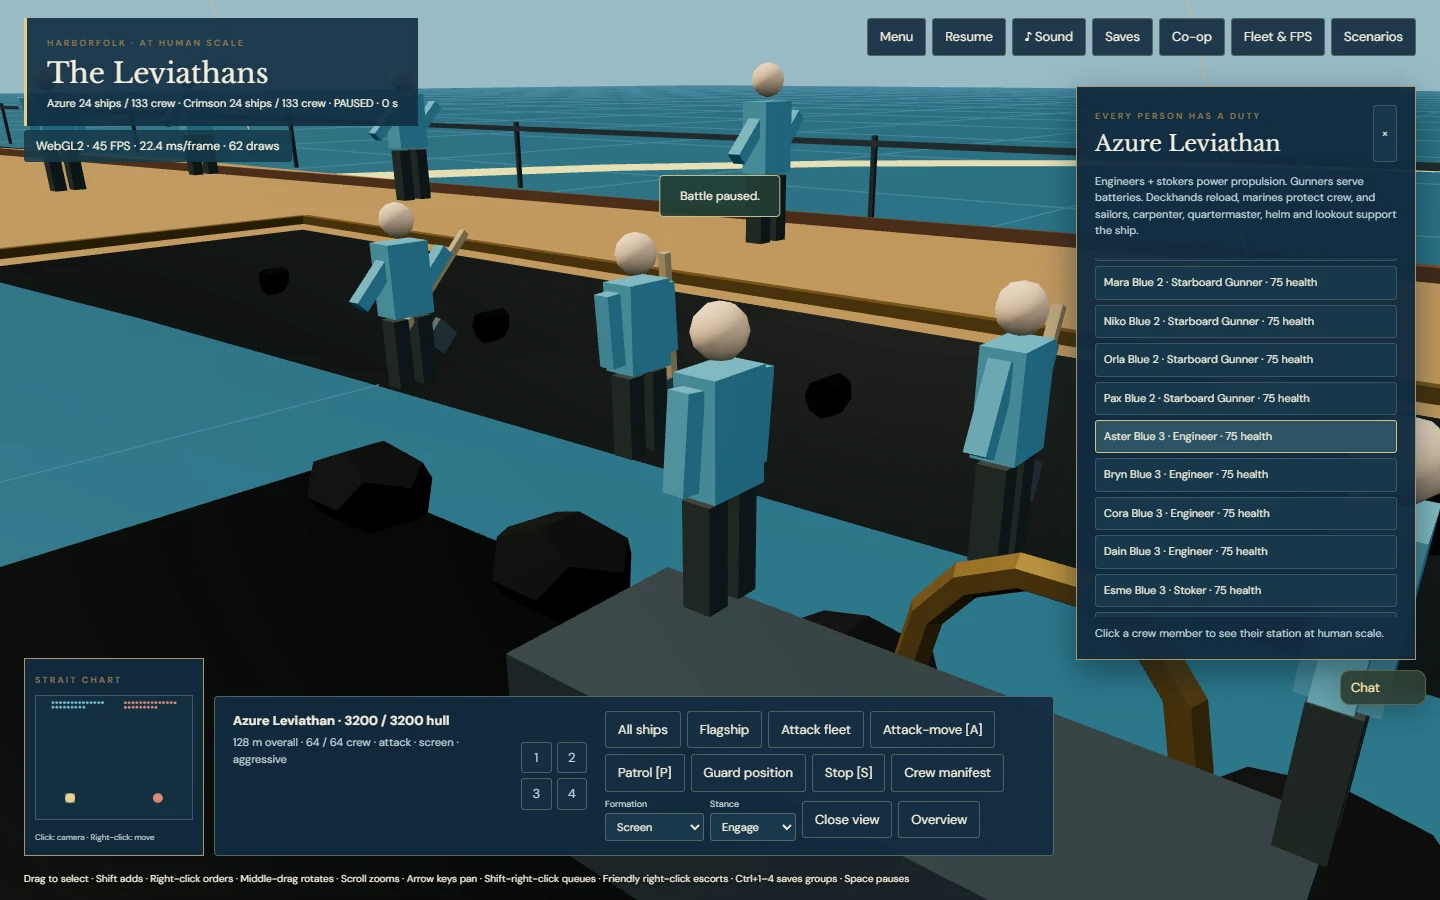
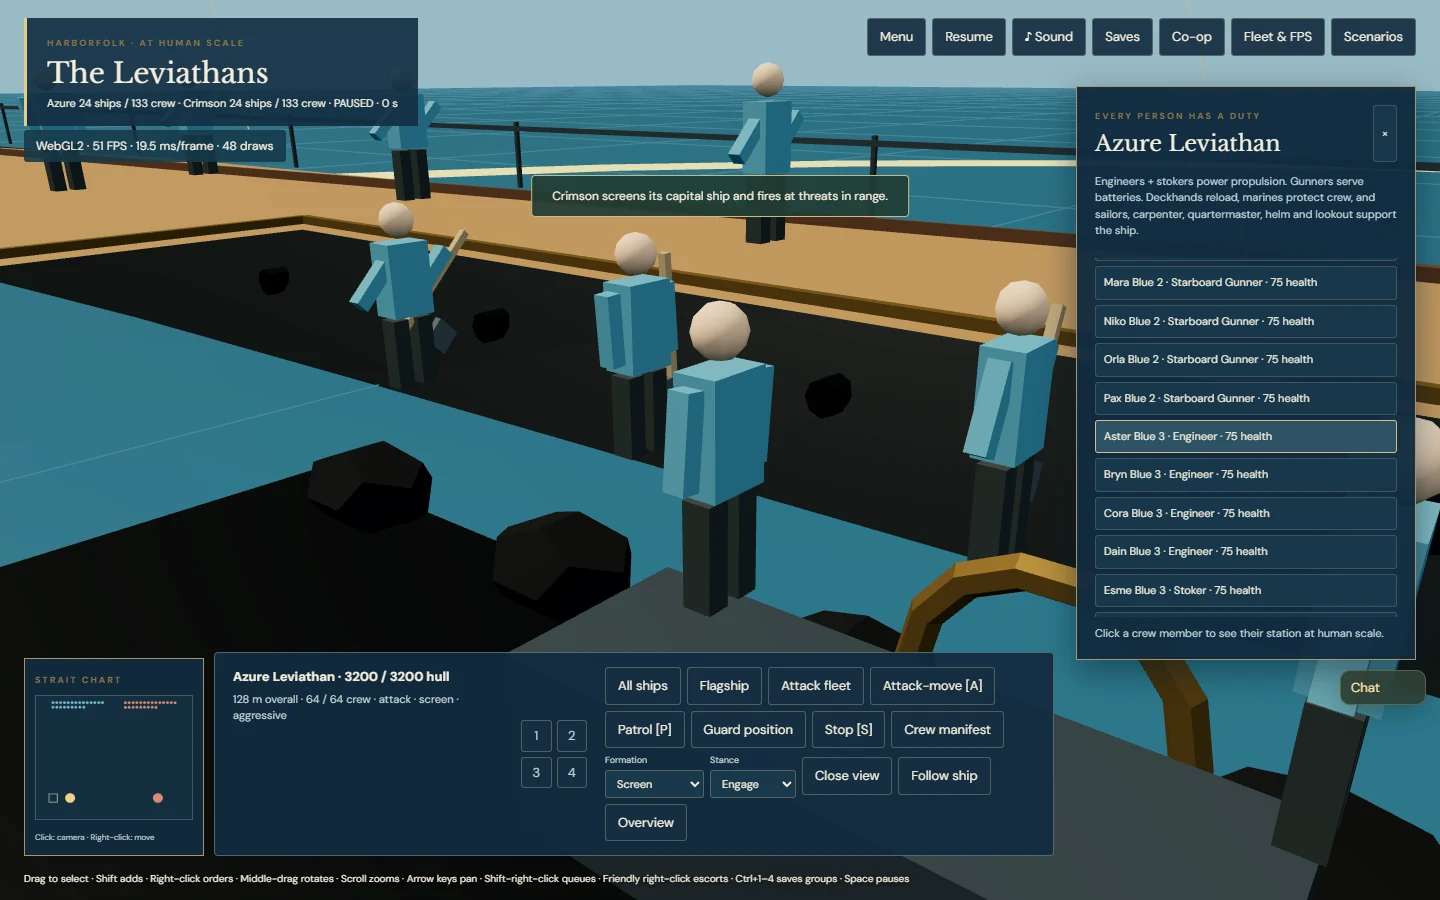
Document verified Harborfolk enemy doctrines and follow camera

Changed region(s): [[0.125, 0.7156, 0.75, 0.9333], [0.3438, 0.1867, 0.6562, 0.2489], [0.0625, 0.1556, 0.2188, 0.1867]]

diff --git a/lib/harborfolkDiary.ts b/lib/harborfolkDiary.ts
@@ -5,7 +5,7 @@ export const harborfolkDiary: DiaryEntry[] = [
   "id": "the-leviathans-have-jobs",
   "title": "The leviathans have jobs",
   "date": "2026-10-13",
-  "version": "v0.3 Fleet tactics & Leviathans · shipped",
+  "version": "v0.3 Fleet commanders & Leviathans · shipped",
   "paragraphs": [
     "The next overnight milestone puts something much bigger in the strait: two 128-metre ironclads, each with a 17.8-metre beam and 64 named playable crew. Ironclad Showdown is a new scenario; the original 69-metre Sovereign battle remains available. Cutters are still eight metres and people are still 1.717 metres. No zoom trick changes those relationships.",
     "HMS Warrior supplied a useful scale reference. The National Museum of the Royal Navy procurement specification states 128 metres overall and 17.8 metres beam; Royal Museums Greenwich preserves the gun-deck plan. Our mesh is a stylized Warrior-inspired prototype, with a modeled 115.8-metre hull and an open machinery well. It is not a museum reconstruction, and 64 playable work stations are not the full historical complement.",
@@ -13,7 +13,8 @@ export const harborfolkDiary: DiaryEntry[] = [
     "Fleet tactics now include line abreast, column, wedge and screen formations. Destination planning uses the actual hull clearance in metres, translates whole layouts at map edges and rejects impossible arrangements. A huge leader therefore needs a genuinely large amount of sea room. Ships still use conservative navigation circles rather than full rigid-body hull physics.",
     "Attack-move engages along a route. Patrol alternates between two points. Shift-right-click queues up to eight further waypoints; right-clicking a friendly ship gives an escort duty. Escorts reserve stations around the actual leader and switch to guard when it sinks. Guard holds position while firing in range, and Engage, Defensive and Hold fire stances control pursuit and fire discipline. Selected hull health, route lines, steam and wakes add useful feedback.",
     "Those tactics live in the simulation, not just in a menu. A guest can issue them to the shared fleet. Two independent browser processes verified 256 ships and 890 starting crew, guest formation/stance/queued orders, real combat damage, and exact named mid-battle saving. After a fresh invitation, hulls, named crew, duties, casualties, orders and projectiles matched the host again. Co-op remains one guest with manual signaling and local named saves/export, rather than a hosted public lobby.",
-    "The source passed 184 automated tests plus TypeScript and production build checks. Browser tests exercised actual pointer tactics, close crew views, save/reload, renderer switching, narrow-screen crew controls, existing menus, save/editor flows and deliberate loading recovery. The public build repeated the tactics, both maximum-fleet co-op presets, menus and recovery checks. These screenshots were captured from the published game.",
+    "A follow-up adds two enemy doctrines that the host can change during the same battle. Crimson can hunt the player capital ship or assign real defensive escorts around its own. Switching changes enemy orders, not hull identity, crew or damage; the doctrine and resulting screen synchronize and save. The local Follow ship camera keeps a moving hull in view while preserving the current angle and zoom, and Overview or manual panning releases it. Both features passed actual browser and co-op checks before publication.",
+    "The source passed 185 automated tests plus TypeScript and production build checks. Browser tests exercised actual pointer tactics, close crew views, save/reload, renderer switching, narrow-screen crew controls, existing menus, save/editor flows and deliberate loading recovery. The public build repeated the tactics, both maximum-fleet co-op presets, menus and recovery checks. These screenshots were captured from the published game.",
     "The finished ironclad preset was measured after renderer warm-up at 48, 192 and 256 ships on actual WebGL2 and WebGPU. Both held about 60 FPS on the RTX 5090 at 1440 by 900, with up to 890 starting crew. That is a display-paced result, not a maximum throughput ceiling or a claim about another computer. Boarding battles, complete naval engineering, a full historical complement and physical XR acceptance remain future work."
   ],
   "sources": [

diff --git a/README.md b/README.md
@@ -23,7 +23,7 @@ boundaries are unchanged.
 `/lab/harborfolk` links to the playable browser strategy prototype. Its diary at
 `/lab/harborfolk/devlog` uses dated, shipped-build entries from
 `lib/harborfolkDiary.ts` and real captures in `public/lab/harborfolk/`.
-The latest entry documents the 128 m ironclads, 64 named crew per capital ship, formations, attack-move, patrol, escort and queued orders, with four real captures from the public game. Fourteen entries now contain 46 screenshots; source dimensions, representative crew limits, co-op/save validation and hardware performance conditions are explicit. Append verified milestones to that data file; label unfinished work explicitly.
+The latest entry documents the 128 m ironclads, 64 named crew per capital ship, formations, attack-move, patrol, escort, queued orders, host-controlled enemy doctrine and follow camera, with four real captures from the public game. Fourteen entries now contain 46 screenshots; source dimensions, representative crew limits, co-op/save validation and hardware performance conditions are explicit. Append verified milestones to that data file; label unfinished work explicitly.
 Keep `harborfolk` excluded from the generic Lab route's `generateStaticParams()`:
 its dedicated overview owns that URL. Verify its distinctive play/diary controls
 on a production build, as well as the diary images and mobile layout.
